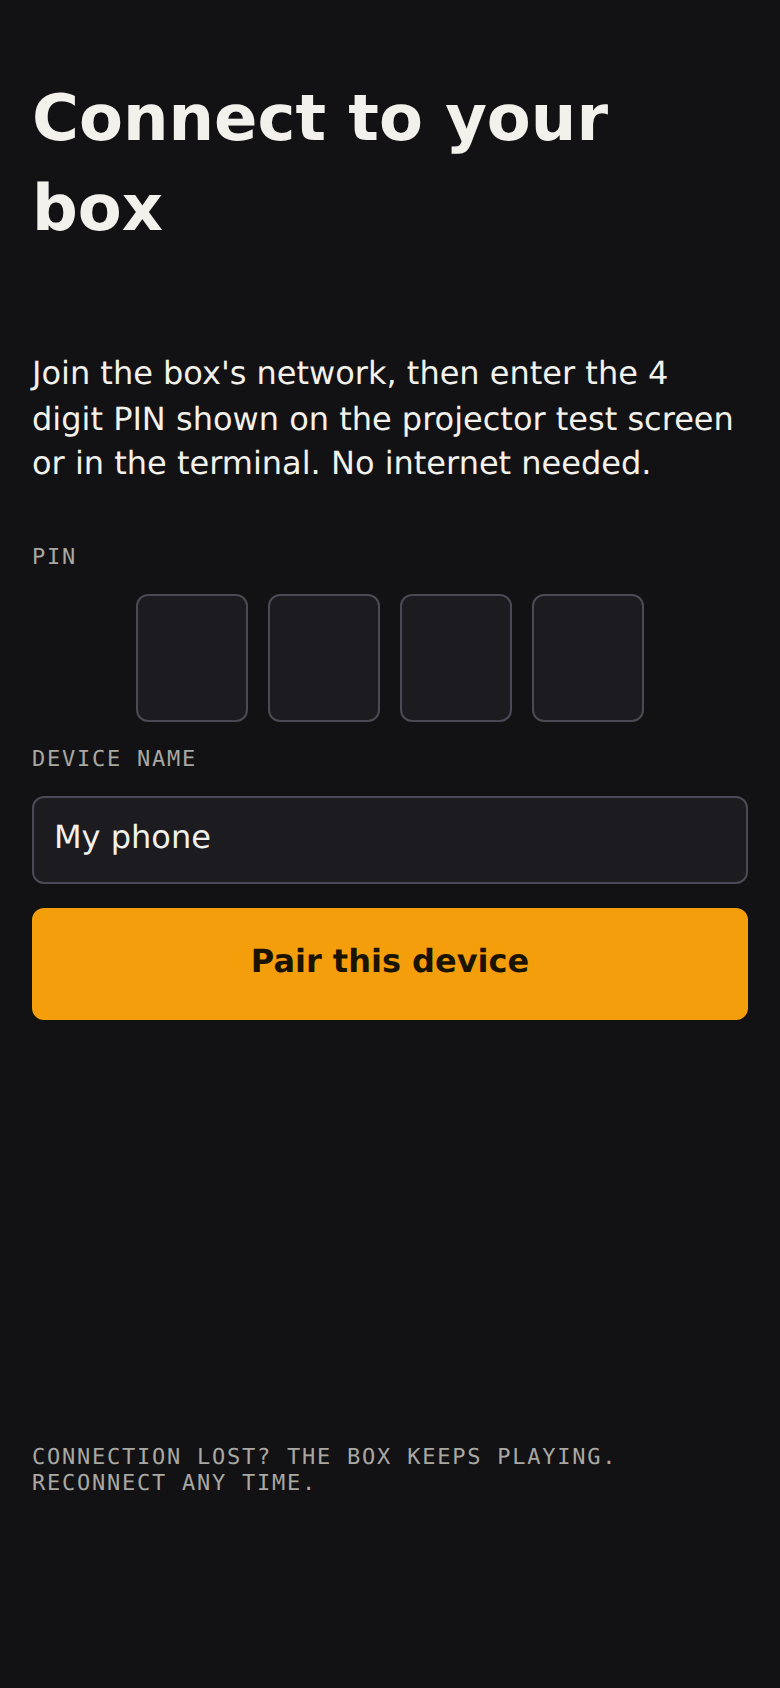
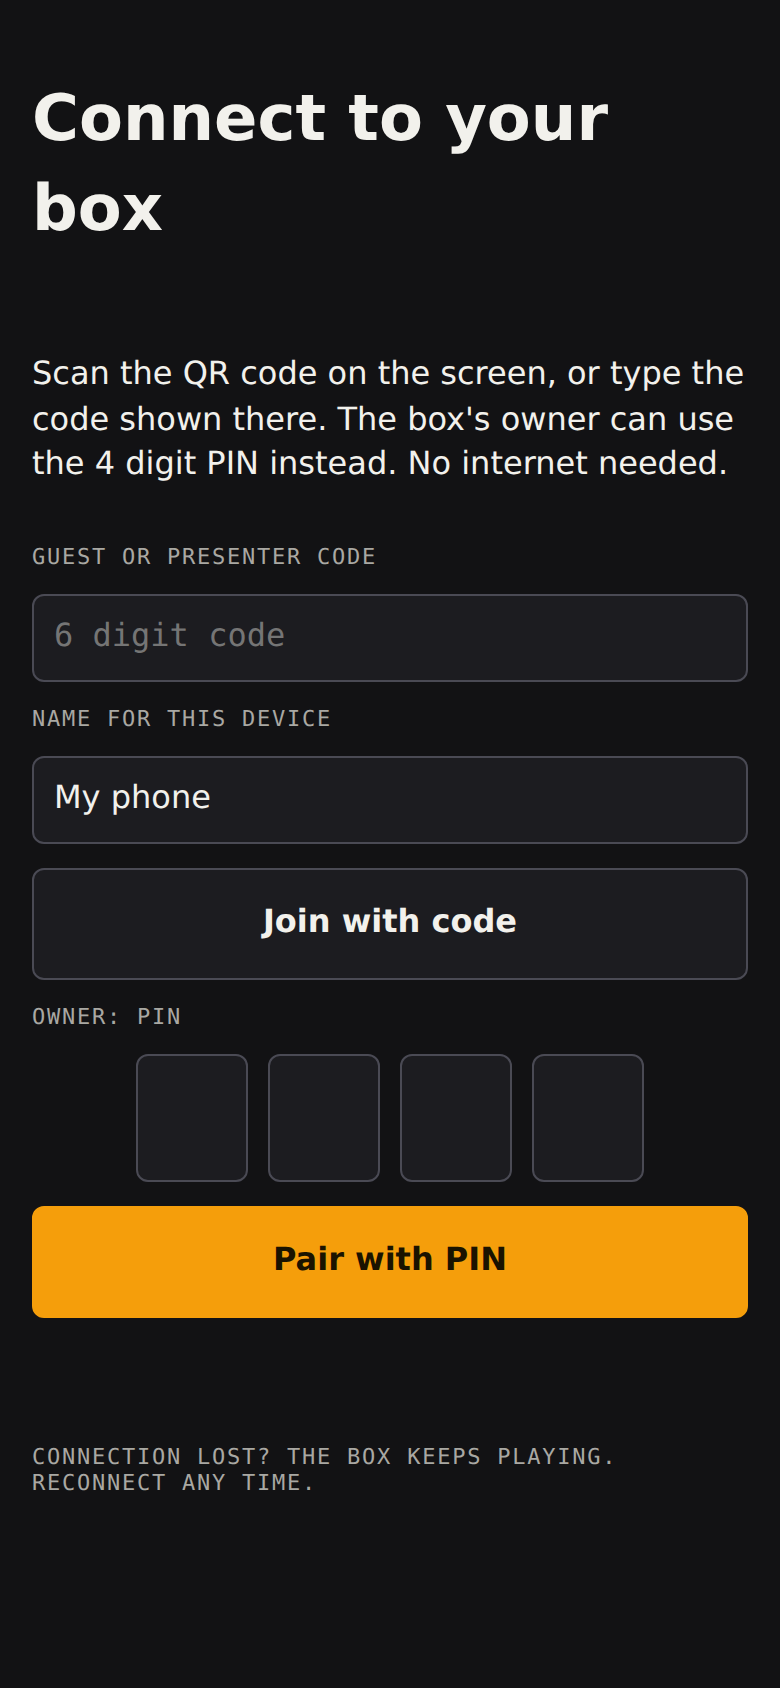
Docs: refreshed panel screenshots, new pictures in UI.md and the manual

diff --git a/docs/MANUAL.md b/docs/MANUAL.md
@@ -38,6 +38,8 @@ For a studio or a gig, the person running the show (a full-access device) opens 
 - **Print access sheet** prints a page to pin up: a QR code for the panel address (no access in it; people still need a code), and the current guest and presenter codes.
 - **Create guest link** makes a link that does not expire (until you remove the device), with its QR code; hand it to a resident operator.
 
+![Access card with a guest and a presenter code and their QR codes](images/ui/access.png)
+
 Tested on a Raspberry Pi 4: the codes and QR codes were drawn on the display, decoded off a snapshot of the screen by a real QR scanner (zbar), and a join with each code gave exactly guest or presenter access.
 
 ## 3. Put clips on it
@@ -60,11 +62,17 @@ Clips live in `/var/lib/pvj/video`. **If you turn on the read-only root (`sudo p
 
 **Now playing** (Live) has the controls of a normal player: a **position slider** (drag and release to jump), **Prev** and **Next** (when several clips are playing as a list, for example Play all), **- 10 s** and **+ 10 s**, **Fade in** (from a blackout or a fade out, over 2 s) and **Test pattern** (SMPTE colour bars from the player itself, for lining up a projector; tap again to stop).
 
+![Now playing with the transport, and Take snapshot](images/ui/live-transport.png)
+
 **Quick play** (Media) plays the whole folder, looping or once, or in a random order (**Shuffle all**), or the clips whose names start with a number (`01_intro.mp4` is clip 01), like the old Video tab. Play all leaves audio files out.
+
+![Quick play](images/ui/media-quickplay.png)
 
 **When a clip ends.** Each pad has its own ending (Edit pads, then the pad): **Loop**, **Play once, then black**, or **Play once, hold the last frame** (for a sting that should stay on screen).
 
 **Slideshow** (Media, like the old Presenter tab): the pictures of the media folder or of a USB drive, each for 0.1 second to a minute, then start again, keep the last picture, or go black; optionally in a random order. Prev and Next on Live step through them.
+
+![Slideshow](images/ui/slideshow.png)
 
 **Live input** (Media): an HDMI capture stick or a webcam on USB, shown like a clip, at 720p or 1080p at 30 frames a second. Playing anything else, Stop, the test pattern switched off or Restart player ends it (switching away from it cuts straight to the next clip, without the dip to black). On a Raspberry Pi 4 with a USB3 HDMI capture stick both sizes played without dropping frames (720p60 dropped frames and is not offered); at 1080p the picture kept slightly behind real time in one test, so prefer 720p until that is checked with a real source. The device is read by a separate helper, so a crash in the capture code cannot stop the player (a fault in the kernel's USB or camera driver still could). Only webcams that can send YUYV are known to work; others are converted, untested. The input's sound is not played yet, and the delay from the source to the screen has not been measured.
 
@@ -72,11 +80,18 @@ Clips live in `/var/lib/pvj/video`. **If you turn on the read-only root (`sudo p
 
 **Overlay picture** (Mix): put a PNG from the media folder over the video, like the old panel's overlay.png: a logo, a watermark, or a mask that blacks out the parts of the picture that miss the screen. Make it transparent where the video should show. It is fitted to the screen once (about a second on a Pi 4), stays on top of the video, and comes back by itself if the player restarts. It cost no measurable playback on a Pi 4 with a 1080p film.
 
+![Overlay picture](images/ui/mix-overlay.png)
+
 **Mirror and position** (Mix): Flip left-right or upside down for rear projection or a mirror rig (live, no reboot; on a Pi 4 it costs about half a processor core at 1080p, and dropped no frames in the test), and Position Y next to Position X.
+
+![Mirror](images/ui/mix-mirror.png)
 
 **Clip details** (Media > Info): codec, picture size, frame rate, length and sound of a clip, read by the player without showing it (the old Movie Codec and Movie Resolution buttons).
 
 **Box** (System): software versions, free space for media, what is connected to each screen output and the modes it offers, the mode the player is using now, and the box clock. Full-access devices also get **Restart the box** and **Power off** (each asks first; neither is reachable over OSC, MIDI or DMX), and, while the clock has not been set from the network (a Pi has no clock battery, so a box with no internet starts at the time it was last shut down), **Set the box clock to this phone's time**. These go through a small helper, `pvj-sysd`, that runs as root with no capabilities of its own (systemd and timedated do the work), in its own folder that only root can change, and answers only root and the panel's account. A clock is only accepted up to 2036: a phone set to a far future year would otherwise stick, because the box saves its clock. If setting the clock goes wrong, the panel says so, including when network time could not be switched back on (the helper switches it back on at its next start). **Test tones** (System > Sound output): 5 seconds of 440 Hz on the left, right or both speakers.
+
+![Box](images/ui/box.png)
+![Sound output](images/ui/sound-output.png)
 
 **Mix** has opacity, volume, size, position, speed, rotate, loop and mute, and how one clip changes to the next: **Cut** or **Dip to black** (a real crossfade is not built; it needs a second player).
 
@@ -99,6 +114,15 @@ Beta modules are **off** until you switch them on under System > Modules. Module
 | **MIDI controller** (USB) | [pvj/MIDI.md](../pvj/MIDI.md) |
 | **OSC**: TouchOSC, Resolume, QLab and others | [pvj/OSC.md](../pvj/OSC.md) |
 | **Network settings** (wired) | [pvj/NETWORK.md](../pvj/NETWORK.md) |
+
+The Projection mapping card on Mix, with a grid and a quad:
+
+![Projection mapping](images/ui/mapper.png)
+
+Projectors and the schedule (here with projector power, a clip, a start script and a blackout):
+
+![Projectors](images/ui/projectors.png)
+![Schedule](images/ui/schedule.png)
 
 Check the box clock before relying on the schedule: a Pi has no battery clock, and until the network sets the time the clock is wrong.
 

diff --git a/docs/UI.md b/docs/UI.md
@@ -2,7 +2,7 @@
      SPDX-License-Identifier: Apache-2.0 -->
 # The panel
 
-The pictures on this page are made by `tests/ui/screenshots.js`, which drives the real panel against the same test harness as the browser test: a headless player, two-second test clips and a **fake network helper**. So the clip names, the addresses (`192.168.1.9`, `192.168.0.40`) and the network ports shown are made up for the picture; nothing here was taken from a real board. Regenerate them with:
+The pictures on this page are made by `tests/ui/screenshots.js`, which drives the real panel against the same test harness as the browser test: a headless player, two-second test clips and a **fake network helper**. So the clip names, the addresses (`192.168.1.9`, `192.168.0.40`, the projectors at `192.168.1.50` and `.51`), the join codes and the network ports shown are made up for the picture; nothing here was taken from a real board. The Box and Sound output cards show the machine that took the pictures (a CI runner), not a Pi. Regenerate them with:
 
 ```
 SHOTS=docs/images/ui node tests/ui/screenshots.js     # needs playwright, Chromium and mpv, like tests/ui/panel.test.js
@@ -27,15 +27,43 @@ The wide layout on a laptop or tablet, and one of the four themes (Dark stage is
 ![Live screen at desktop width](images/ui/live-desktop.png)
 ![Live screen in the Night red theme](images/ui/live-night-red.png)
 
+### Transport and snapshot
+
+Under Now playing: the position slider, Prev and Next (greyed out here because one clip is playing, not a list), 10 seconds back and forward, Fade in and Test pattern. Below it, Take snapshot shows one picture of what the box is showing, only when tapped.
+
+![Now playing card with the transport, and the Screen card with Take snapshot](images/ui/live-transport.png)
+
 ## Mix
 
 ![Mix screen: sliders, transition, rotate](images/ui/mix.png)
+
+### Mirror and overlay
+
+Flip left-right and upside down for rear projection or a mirror rig. The overlay puts a PNG from the media folder over the video (a logo, or a mask).
+
+![Mirror card with the two flip buttons](images/ui/mix-mirror.png)
+![Overlay picture card with logo.png chosen](images/ui/mix-overlay.png)
+
+### Projection mapping (beta)
+
+Shown when the Projection mapper module is on. The canvas is the screen, drawn small: here a 3x2 grid named Back wall and a quad named Side panel, the chosen surface in yellow with its chosen corner in pink. Below: nudge buttons, the surface list in layer order, and saved mappings. See [MAPPER.md](../pvj/MAPPER.md).
+
+![Projection mapping card with a grid and a quad on the canvas](images/ui/mapper.png)
 
 ## Media
 
 Upload from the phone, play, rename or delete. Only full-access devices can change files.
 
 ![Media screen with uploaded clips](images/ui/media.png)
+
+### Quick play and slideshow
+
+Quick play plays the whole folder (looping, once or shuffled) or the clips whose names start with a number. The slideshow shows the pictures of the media folder or a USB drive, one after another.
+
+![Quick play card: play all, play once, shuffle, play by number](images/ui/media-quickplay.png)
+![Slideshow card: source, time per picture, ending, random order](images/ui/slideshow.png)
+
+The Live input card (USB capture stick or webcam) appears only when the box has such a device; the machine that takes these pictures has none, so it has no picture here.
 
 ## System
 
@@ -44,6 +72,13 @@ Upload from the phone, play, rename or delete. Only full-access devices can chan
 Modules are switched on here. Beta modules are off until you turn them on; modules that are not built yet say so.
 
 ![Modules card](images/ui/system-modules.png)
+
+### Box and sound output
+
+The Box card: software versions, free space, the screen outputs and their modes, the box clock, and Restart the box and Power off. Sound output chooses where the sound goes and plays a test tone on the left, right or both speakers.
+
+![Box card](images/ui/box.png)
+![Sound output card with test tone buttons](images/ui/sound-output.png)
 
 ### Autostart
 
@@ -54,6 +89,12 @@ Modules are switched on here. Beta modules are off until you turn them on; modul
 | Weekly schedule (see [SCHEDULE.md](../pvj/SCHEDULE.md)) | Streams (see [STREAMS.md](../pvj/STREAMS.md)) |
 | --- | --- |
 | ![Schedule card](images/ui/schedule.png) | ![Streams card](images/ui/streams.png) |
+
+The schedule above has an entry of each kind: projectors on, play a clip, a legacy start script, blackout and projectors off.
+
+Projectors (see [PROJECTORS.md](../pvj/PROJECTORS.md)): two projectors at private addresses, each with On, Off, Picture mute, Unmute and Check, and All on and All off for both. The one with a password says so; the password itself is never shown.
+
+![Projectors card with two projectors](images/ui/projectors.png)
 
 | DMX (see [DMX.md](../pvj/DMX.md)) | MIDI (see [MIDI.md](../pvj/MIDI.md)) |
 | --- | --- |
@@ -67,4 +108,6 @@ Network settings (wired) always revert by themselves unless you confirm them. Se
 
 | OSC (see [OSC.md](../pvj/OSC.md)) | Appearance | Access |
 | --- | --- | --- |
-| ![OSC card](images/ui/control-osc.png) | ![Appearance card](images/ui/appearance.png) | ![Access card](images/ui/access.png) |
+| ![OSC card](images/ui/control-osc.png) | ![Appearance card](images/ui/appearance.png) | ![Access card with a guest and a presenter code and their QR codes](images/ui/access.png) |
+
+The Access card shows a guest code and a presenter code, each with its QR code, how long it lasts and how many uses are left.

diff --git a/project-log/JOURNAL.md b/project-log/JOURNAL.md
@@ -4,6 +4,17 @@
 
 Newest entry first. One entry per working session: what was done, what merged, what is open.
 
+## 2026-09-30 (panel screenshots refreshed)
+
+Done:
+- `tests/ui/screenshots.js` had stopped after the connect picture since the pairing button was renamed ("Pair with PIN", `#pairbtn`); the CI step is continue-on-error, so nobody noticed. Fixed.
+- New cropped pictures in `docs/images/ui`: live-transport, mix-mirror, mix-overlay, mapper, media-quickplay, slideshow, box, sound-output, projectors. Schedule (every kind of action) and access (guest and presenter codes with QR codes) show more now. All other pictures retaken from the same run. Tall screens show the tab bar at the bottom instead of over the middle.
+- Used in `docs/UI.md` and `docs/MANUAL.md`.
+
+Not captured: Live input (the CI runner has no capture device; the script skips it). The snapshot image itself (a headless player gives none), so the Screen card is shown before a tap.
+
+Seen in the pictures, not fixed (UI, for a later change): at phone width the Media list squeezes file names to a few letters per line; the Remove button of the mapping surface list and the Print access sheet button of the Access card run past the right edge of their cards. The browser test failed once on the mapper step (`#mapsel` "corner 1 of 4" not seen in 30 s) and passed on the next run.
+
 ## 2026-09-30 (projection mapper)
 
 Done:
